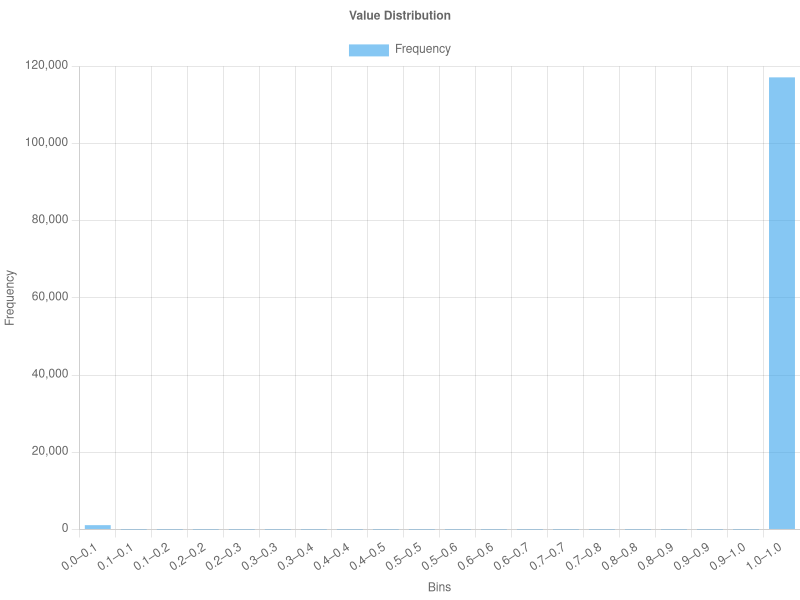
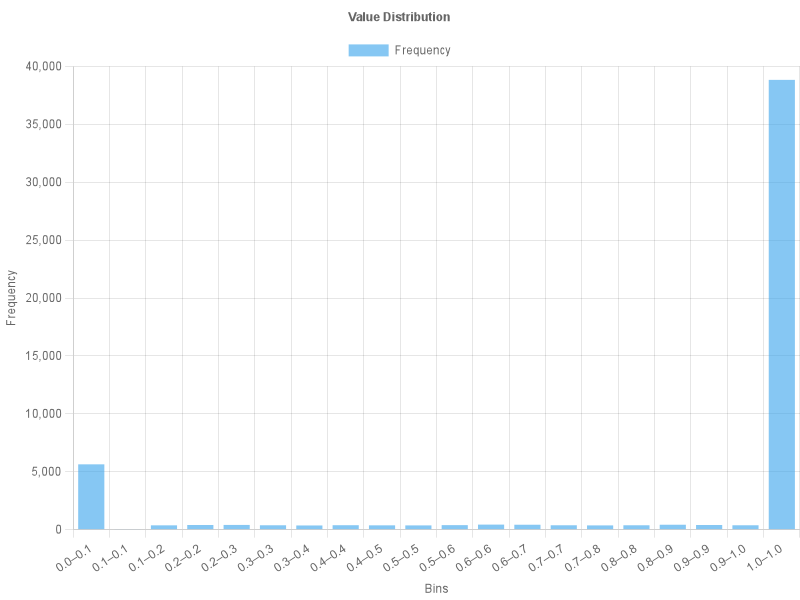
.

diff --git a/index.ts b/index.ts
@@ -5,11 +5,11 @@ const matrix = [
     [[0, 1], [2, 2]]
 ];
 
-const epochs = 20;
-const initialPopulation = [.8, .8, .8, .8];
-const r = 1.5;
-const mutationProbability = 0.001;
-const mutationAmount = 0.01;
+const epochs = 10;
+const initialPopulation = [.6, .6, .6, .6];
+const r = 1.1;
+const mutationProbability = 0.3;
+const mutationAmount = 0.1;
 
 /**
 * @description This function performs the game of life taking the choices of X and Y as boolean values and returning the numbers of offspring for each of the parents.

diff --git a/README.md b/README.md
@@ -32,4 +32,14 @@ The values are defined as follows:
 |---|--------|--------|
 | C | (2, 2) | (0, 1) |
 | D | (1, O) | (1, 1) |
+## Results
+One of the results with the following settings: 
+```js
+const epochs = 10;
+const initialPopulation = [.6, .6, .6, .6];
+const r = 1.1;
+const mutationProbability = 0.3;
+const mutationAmount = 0.1;
+```
+![img.png](img.png)
 
